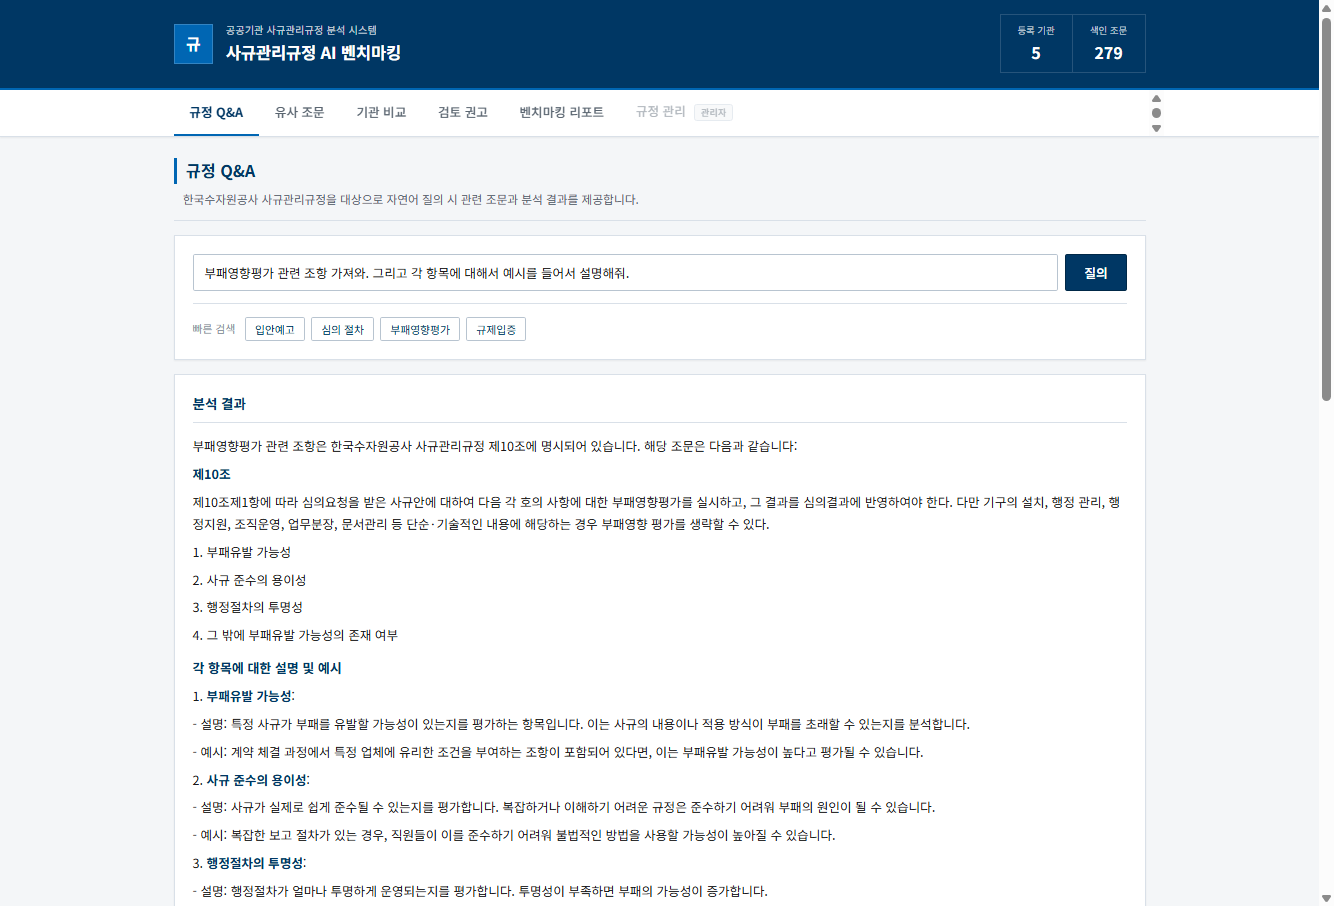
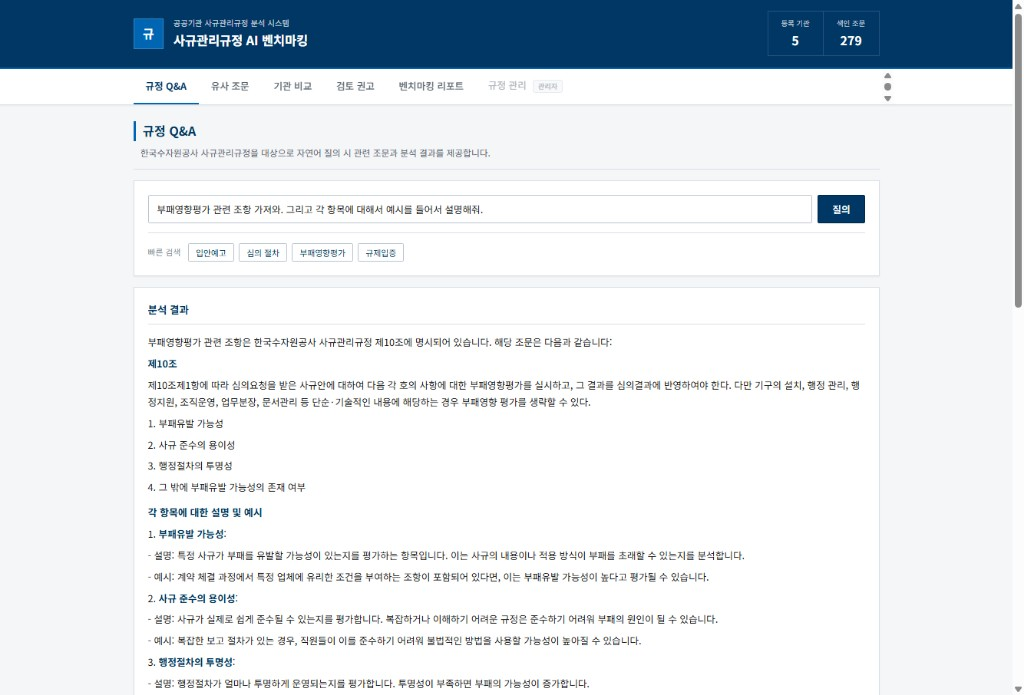
docs: update Q&A README and screenshot for corruption impact assessment example
Align regulation Q&A section with new img/1.png showing Article 10 provision lookup with per-item explanations and examples.

diff --git a/README.md b/README.md
@@ -11,7 +11,7 @@
 
 | 메뉴 | 설명 |
 |------|------|
-| 💬 **규정 Q&A** | 한국수자원공사 사규관리규정 대상 — 질문만 입력하면 관련 조문 + AI 답변 |
+| 💬 **규정 Q&A** | 한국수자원공사 사규관리규정 — 조문 검색 + **항목별 설명·예시** AI 답변 |
 | 🔎 **유사 조문** | 조문 번호·제목이 달라도, **의미가 비슷한** 조문을 기관별로 탐색 |
 | ⚖️ **기관 비교** | 두 기관을 같은 주제로 대조 — 공통점·차이점·근거 조문까지 |
 | 🔔 **검토 권고** | 타 기관에는 있는데 우리 기관만 약한 주제를 자동 탐지 |
@@ -56,19 +56,21 @@
 
 ### 💬 1. 규정 Q&A
 
-**“사규 심의 절차가 어떻게 되나요?”** — 이렇게 평소 말하듯 질문하면 됩니다.  
-AI가 한국수자원공사 사규관리규정에서 관련 조문을 찾아, **절차를 단계별로** 정리해 줍니다.
+**“부패영향평가 관련 조항 가져와. 각 항목에 예시 들어서 설명해줘.”** — 이렇게 **평소 말하듯** 질문하면 됩니다.  
+AI가 한국수자원공사 사규관리규정에서 관련 조문을 찾고, **원문 인용 + 항목별 설명·예시**까지 정리해 줍니다.
 
 ![규정 Q&A 화면](img/1.png)
 
 **👆 화면에서 볼 수 있는 것**
 
-- **질의창** — “입안예고 기간은?”처럼 자연어로 질문합니다. 옆 **질의** 버튼을 누르면 분석이 시작됩니다.
-- **빠른 검색 칩** — 자주 찾는 주제(입안예고, 심의 절차, 부패영향평가 등)를 클릭하면 질의창에 바로 채워집니다.
-- **분석 결과** — AI가 조문 원문만 근거로 답변합니다. 예시 화면처럼 심의 요청 → 결과 작성 → 위원회 심의 → 송부 → 확정 순으로 **번호 목록**으로 정리됩니다.
-- **근거 조문** — 답변의 출처가 되는 조문(예: 제10조, 제11조)과 본문 발췌, 유사도가 함께 표시됩니다.
+- **질의창** — 조문 검색만이 아니라 “가져와”, “예시 들어 설명해줘”처럼 **복합 요청**도 가능합니다. **질의** 버튼으로 실행합니다.
+- **빠른 검색 칩** — 입안예고, 심의 절차, 부패영향평가, 규제입증 등 자주 쓰는 키워드를 클릭하면 질의창에 채워집니다.
+- **분석 결과 — 근거 조문** — 예시 화면처럼 **제10조** 등 관련 조문 원문이 먼저 제시됩니다. (부패영향평가 실시·심의 반영 등)
+- **분석 결과 — 항목 정리** — 조문에 나온 각 호를 번호 목록으로 뽑아 줍니다.  
+  예: ① 부패유발 가능성 ② 사규 준수의 용이성 ③ 행정절차의 투명성 ④ 그 밖의 부패유발 가능성
+- **분석 결과 — 설명·예시** — 각 항목마다 **설명**과 **예시**를 붙여, 조문만으로는 파악하기 어려운 내용을 업무 관점에서 이해할 수 있게 합니다.
 
-> 💡 **Tip** — 규정 Q&A는 **한국수자원공사** 조문만 대상입니다. 다른 기관 규정은 **유사 조문**·**기관 비교** 메뉴를 이용하세요.
+> 💡 **Tip** — 규정 Q&A는 **한국수자원공사** 조문만 대상입니다. 답변은 **등록된 조문만** 근거로 하며, 조문에 없는 내용은 추측하지 않습니다. 다른 기관 규정은 **유사 조문**·**기관 비교** 메뉴를 이용하세요.
 
 ---
 